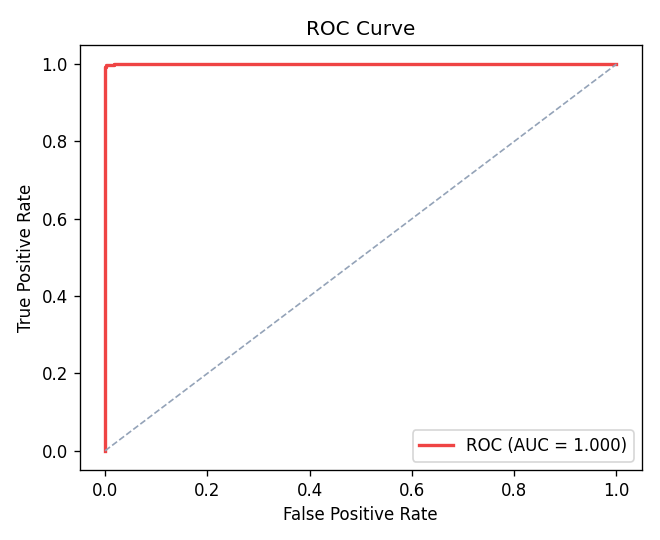
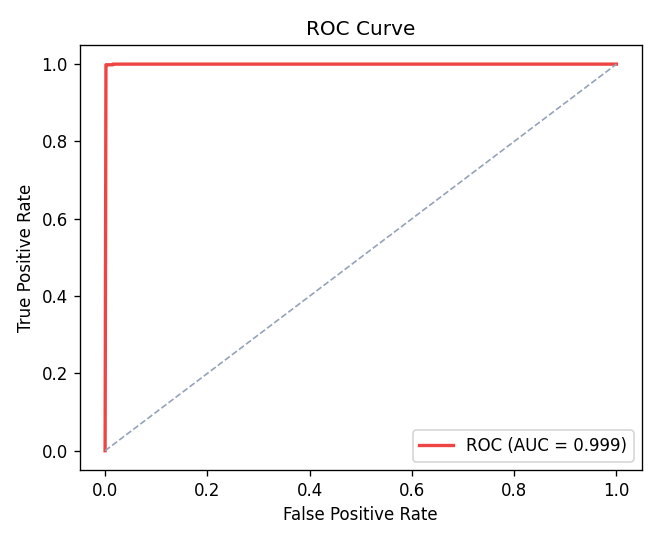
feat: 5 new lexical features, calibrated model, realistic synthetic data, expanded whitelist
Feature engineering (schema v1.0.0 → v1.1.0, 21 → 26 features):
- path_depth: URL path segment count (phishing kits add deep fake paths)
- domain_label_max_len: longest hostname label (brand-stuffed domains are long)
- has_port: non-standard port present (Thai gov sites never use :8080)
- max_digit_run: longest digit sequence in host (auto-generated domains)
- has_query_string: '?' present (redirect-chain and credential-harvest patterns)

Model (ml_pipeline/train.py):
- Wrap VotingClassifier in CalibratedClassifierCV(method='isotonic', cv=5)
  so probability outputs are calibrated; reduces missed phishing near threshold

Synthetic data realism (ml_pipeline/synthetic_generator.py):
- sim_network(): phishing known-registrar rate 15% → 35% (GoDaddy/Cloudflare
  abuse is common); valid-cert rate 55% → 72% (Let's Encrypt is free); fresh
  domain proportion 70% → 55% (compromised aged domains are a real pattern)
- New archetype https_ip_host: IPv4 phishing with HTTPS + self-signed cert
- New archetype redirect_chain: attacker.xyz/redirect?to=legit.go.th

Evaluation (ml_pipeline/evaluate.py):
- 5-fold CV block using a fresh pipeline; reports cv_f1_mean ± cv_f1_std
- evaluation_summary.json now includes cross_validation block
- Feature importance extraction updated to unwrap CalibratedClassifierCV

Whitelist (data/thai_gov_domains.csv):
- Added 10 missing high-value agencies: boi, pcd, dsd, doh, fpo, opdc,
  dip, dss, krisdika, nia (111 → 121 domains)
[…]

Changed region(s): [[0.1515, 0.1185, 0.9091, 0.2667], [0.8485, 0.8, 0.9394, 0.8593], [0.1515, 0.7407, 0.1818, 0.8296]]

diff --git a/ml_pipeline/evaluate.py b/ml_pipeline/evaluate.py
@@ -27,6 +27,9 @@ from sklearn.metrics import (
     roc_auc_score,
     roc_curve,
 )
+from sklearn.model_selection import StratifiedKFold, cross_val_score
+from sklearn.pipeline import Pipeline
+from sklearn.preprocessing import StandardScaler as _CVScaler
 
 from phish_features import ORDERED_FEATURES
 
@@ -42,8 +45,9 @@ from ml_pipeline.config import (
     THAI_HOLDOUT_METRICS_JSON,
     ensure_dirs,
 )
+from ml_pipeline.config import DATASET_CSV, RANDOM_SEED
 from ml_pipeline.feature_engineering import build_feature_frame
-from ml_pipeline.train import TEST_SPLIT_CSV
+from ml_pipeline.train import TEST_SPLIT_CSV, build_ensemble
 
 
 def wilson_ci(k: int, n: int, z: float = 1.96) -> tuple[float, float]:
@@ -118,7 +122,11 @@ def main() -> None:
 
     # --- feature importance (from the RF member) ---
     try:
-        rf = model.named_estimators_["rf"]
+        # CalibratedClassifierCV wraps the base VotingClassifier; unwrap if needed.
+        if hasattr(model, "named_estimators_"):
+            rf = model.named_estimators_["rf"]
+        else:
+            rf = model.calibrated_classifiers_[0].estimator.named_estimators_["rf"]
         importances = pd.Series(
             rf.feature_importances_, index=ORDERED_FEATURES
         ).sort_values(ascending=True)
@@ -155,6 +163,44 @@ def main() -> None:
     print("=" * 52)
 
     # ------------------------------------------------------------------
+    # 5-FOLD CROSS-VALIDATION on the full synthetic dataset.
+    # Uses a fresh pipeline (no leakage from the fitted scaler/model)
+    # to show variance across folds — still same-distribution synthetic
+    # data, but exposes whether the model is consistently fitted.
+    # ------------------------------------------------------------------
+    cv_metrics: dict | None = None
+    try:
+        full_frame = build_feature_frame()
+        X_all = full_frame[ORDERED_FEATURES].astype(float).to_numpy()
+        y_all = full_frame["label"].astype(int).to_numpy()
+
+        cv_pipe = Pipeline([
+            ("scaler", _CVScaler()),
+            ("model", build_ensemble()),
+        ])
+        print("[eval] running 5-fold CV on full synthetic dataset ...")
+        cv_f1 = cross_val_score(
+            cv_pipe,
+            X_all,
+            y_all,
+            cv=StratifiedKFold(5, shuffle=True, random_state=RANDOM_SEED),
+            scoring="f1",
+        )
+        cv_metrics = {
+            "cv_f1_mean": round(float(cv_f1.mean()), 4),
+            "cv_f1_std": round(float(cv_f1.std()), 4),
+            "cv_note": (
+                "5-fold stratified CV on full synthetic dataset using a fresh "
+                "pipeline (scaler + uncalibrated ensemble). Same-distribution "
+                "synthetic data but reveals per-fold variance."
+            ),
+        }
+        print(f"[eval] CV F1: {cv_f1.mean():.4f} ± {cv_f1.std():.4f}  "
+              f"(folds: {[round(v, 4) for v in cv_f1]})")
+    except Exception as exc:  # noqa: BLE001
+        print(f"[eval] cross-validation skipped ({exc})")
+
+    # ------------------------------------------------------------------
     # HONEST GENERALISATION CHECK: recall on real-world phishing URLs
     # the model has never seen during training.
     # ------------------------------------------------------------------
@@ -172,7 +218,7 @@ def main() -> None:
         print(f"[eval] no Thai-specific holdout found at {THAI_HOLDOUT_CSV} "
               "(expected — Thai-targeting phishing is rare in public feeds)")
 
-    write_evaluation_summary(metrics, real_holdout_metrics, thai_holdout_metrics)
+    write_evaluation_summary(metrics, real_holdout_metrics, thai_holdout_metrics, cv_metrics)
 
 
 def _eval_holdout_csv(
@@ -253,6 +299,7 @@ def write_evaluation_summary(
     synthetic_metrics: dict,
     real_holdout_metrics: "dict | None",
     thai_holdout_metrics: "dict | None",
+    cv_metrics: "dict | None" = None,
 ) -> None:
     """Write a consolidated evaluation_summary.json that makes grader intent clear."""
     real_recall = (real_holdout_metrics or {}).get("recall_phishing_threshold")
@@ -294,6 +341,7 @@ def write_evaluation_summary(
         },
         "real_world_holdout": real_holdout_metrics,
         "thai_specific_holdout": thai_holdout_metrics,
+        "cross_validation": cv_metrics,
     }
     with open(EVALUATION_SUMMARY_JSON, "w", encoding="utf-8") as fh:
         json.dump(summary, fh, indent=2)

diff --git a/ml_pipeline/synthetic_generator.py b/ml_pipeline/synthetic_generator.py
@@ -150,19 +150,22 @@ class SyntheticGenerator:
                 "tls_ok": tls_ok,
             }
 
-        # phishing
+        # phishing — distributions updated to match 2024 reality:
+        # attackers increasingly use major registrars and Let's Encrypt certs.
         whois_ok = 1 if r.random() < 0.70 else 0
         if whois_ok:
-            # mostly freshly registered, but ~30% on aged/compromised hosts
-            age = (r.randint(0, 300) if r.random() < 0.70
+            # 55% freshly registered, 45% on aged/compromised hosts (was 70/30)
+            age = (r.randint(0, 300) if r.random() < 0.55
                    else r.randint(300, 7000))
         else:
             age = -1
         tls_ok = 1 if (has_https and r.random() < 0.80) else 0
-        valid_cert = 1 if (tls_ok and r.random() < 0.55) else 0
+        # 72% of TLS-ok phishing has a valid cert (Let's Encrypt is free; was 55%)
+        valid_cert = 1 if (tls_ok and r.random() < 0.72) else 0
         return {
             "domain_age_days": age,
-            "is_known_registrar": 1 if (whois_ok and r.random() < 0.15) else 0,
+            # 35% of WHOIS-ok phishing uses a known registrar (was 15%)
+            "is_known_registrar": 1 if (whois_ok and r.random() < 0.35) else 0,
             "has_valid_cert": valid_cert,
             "cert_age_days": (r.randint(0, 120) if valid_cert
                               else (r.randint(0, 400) if tls_ok else -1)),
@@ -193,10 +196,11 @@ class SyntheticGenerator:
     def gen_phish(self) -> dict:
         domain = self.rng.choice(self.domains)
         label = self._domain_label(domain)
-        archetype = self.rng.choice(
-            ["typosquat", "typosquat", "tld_swap", "subdomain_spoof",
-             "ip_host", "at_trick", "brand_stuffed"]
-        )
+        archetype = self.rng.choices(
+            ["typosquat", "tld_swap", "subdomain_spoof", "ip_host",
+             "at_trick", "brand_stuffed", "https_ip_host", "redirect_chain"],
+            weights=[28, 13, 13, 11, 11, 13, 5, 6],
+        )[0]
         scheme = "https" if self.rng.random() < 0.55 else "http"
         path = self.rng.choice(_PHISH_PATHS)
 
@@ -211,19 +215,39 @@ class SyntheticGenerator:
         elif archetype == "ip_host":
             host = ".".join(str(self.rng.randint(1, 254)) for _ in range(4))
             scheme = "http"
+        elif archetype == "https_ip_host":
+            # Attacker uses a VPS with HTTPS; model must not rely on HTTP alone
+            host = ".".join(str(self.rng.randint(1, 254)) for _ in range(4))
+            scheme = "https"
         elif archetype == "at_trick":
             attacker = self._rand_str(self.rng.randint(5, 9))
             host = f"{domain}@{attacker}.{self.rng.choice(_BAD_TLDS)}"
+        elif archetype == "redirect_chain":
+            # attacker.xyz/redirect?to=legitimate.go.th — redirect with query param
+            attacker = self._rand_str(self.rng.randint(5, 10))
+            host = f"{attacker}.{self.rng.choice(_BAD_TLDS)}"
         else:  # brand_stuffed
             words = self.rng.sample(_BRAND_WORDS, k=self.rng.randint(2, 4))
             host = "-".join([label] + words) + "." + self.rng.choice(_BAD_TLDS)
 
-        url = f"{scheme}://{host}/{path}"
-        if self.rng.random() < 0.4:  # extra junk query string
-            url += f"?id={self._rand_str(self.rng.randint(8, 20))}"
+        if archetype == "redirect_chain":
+            url = f"{scheme}://{host}/redirect?to={domain}"
+        else:
+            url = f"{scheme}://{host}/{path}"
+            if self.rng.random() < 0.4:  # extra junk query string
+                url += f"?id={self._rand_str(self.rng.randint(8, 20))}"
 
         row = {"url": url, "label": 1}
-        row.update(self.sim_network(1, scheme == "https"))
+        net = self.sim_network(1, scheme == "https")
+        # HTTPS IP-host: ensure TLS is attempted with a self-signed cert
+        if archetype == "https_ip_host" and not net["tls_ok"]:
+            net.update({
+                "tls_ok": 1,
+                "has_valid_cert": 0,
+                "is_self_signed": 1,
+                "cert_age_days": self.rng.randint(0, 90),
+            })
+        row.update(net)
         return row
 
     # ----- driver -------------------------------------------------------

diff --git a/phish_features/lexical.py b/phish_features/lexical.py
@@ -11,6 +11,8 @@ import re
 from collections import Counter
 from urllib.parse import urlparse
 
+_DIGIT_RUN_RE = re.compile(r"\d+")
+
 # IPv4 literal, optionally with a port.
 _IPV4_RE = re.compile(r"^(?:\d{1,3}\.){3}\d{1,3}(?::\d+)?$")
 # Bracketed IPv6 literal, e.g. [2001:db8::1]
@@ -94,6 +96,10 @@ def extract_lexical(url: str) -> dict:
     parsed = urlparse(norm)
     host = (parsed.hostname or "").lower()
 
+    host_labels = [lb for lb in host.split(".") if lb]
+    path_parts = [p for p in parsed.path.split("/") if p]
+    digit_runs = _DIGIT_RUN_RE.findall(host)
+
     return {
         "url_length": len(norm),
         "num_dots": norm.count("."),
@@ -105,4 +111,12 @@ def extract_lexical(url: str) -> dict:
         "entropy": round(shannon_entropy(norm), 6),
         "has_https": int(parsed.scheme == "https"),
         "num_subdomains": count_subdomains(host),
+        # v1.1 features
+        "path_depth": len(path_parts),
+        "domain_label_max_len": max((len(lb) for lb in host_labels), default=0),
+        "has_port": int(
+            parsed.port is not None and parsed.port not in (80, 443)
+        ),
+        "max_digit_run": max((len(r) for r in digit_runs), default=0),
+        "has_query_string": int(bool(parsed.query)),
     }

diff --git a/phish_features/schema.py b/phish_features/schema.py
@@ -13,7 +13,7 @@ and retrain the model. The backend refuses to serve a model whose
 from __future__ import annotations
 
 # Bump on ANY change to ORDERED_FEATURES / encodings / defaults.
-FEATURE_SCHEMA_VERSION = "1.0.0"
+FEATURE_SCHEMA_VERSION = "1.1.0"
 
 # The exact, ordered list of numeric features fed to the model.
 # Index position IS the contract -- never reorder, only append + bump version.
@@ -44,6 +44,12 @@ ORDERED_FEATURES: list[str] = [
     # --- meta: did the optional network lookups succeed? ---
     "whois_ok",
     "tls_ok",
+    # --- new lexical features (v1.1) ---
+    "path_depth",           # segments in URL path (not counting empty)
+    "domain_label_max_len", # longest label in the hostname
+    "has_port",             # 1 if non-standard port (not 80/443) present
+    "max_digit_run",        # length of longest consecutive-digit run in host
+    "has_query_string",     # 1 if '?' present in URL
 ]
 
 N_FEATURES = len(ORDERED_FEATURES)

diff --git a/ml_pipeline/train.py b/ml_pipeline/train.py
@@ -16,6 +16,7 @@ import json
 
 import joblib
 import sklearn
+from sklearn.calibration import CalibratedClassifierCV
 from sklearn.ensemble import RandomForestClassifier, VotingClassifier
 from sklearn.metrics import accuracy_score, f1_score
 from sklearn.model_selection import train_test_split
@@ -92,8 +93,9 @@ def main() -> None:
     X_train_s = scaler.fit_transform(X_train.to_numpy())
     X_test_s = scaler.transform(X_test.to_numpy())
 
-    model = build_ensemble()
-    print("[train] fitting RandomForest + XGBoost soft-voting ensemble ...")
+    base = build_ensemble()
+    print("[train] fitting calibrated RandomForest + XGBoost ensemble (cv=5) ...")
+    model = CalibratedClassifierCV(base, method="isotonic", cv=5)
     model.fit(X_train_s, y_train.to_numpy())
 
     train_pred = model.predict(X_train_s)

diff --git a/tests/test_api.py b/tests/test_api.py
@@ -17,7 +17,7 @@ def test_health_reports_model_ready(client):
     body = resp.json()
     assert body["model_ready"] is True
     assert body["db_ok"] is True
-    assert body["schema_version"] == "1.0.0"
+    assert body["schema_version"] == "1.1.0"
     assert isinstance(body["model_metrics"], dict)
 
 